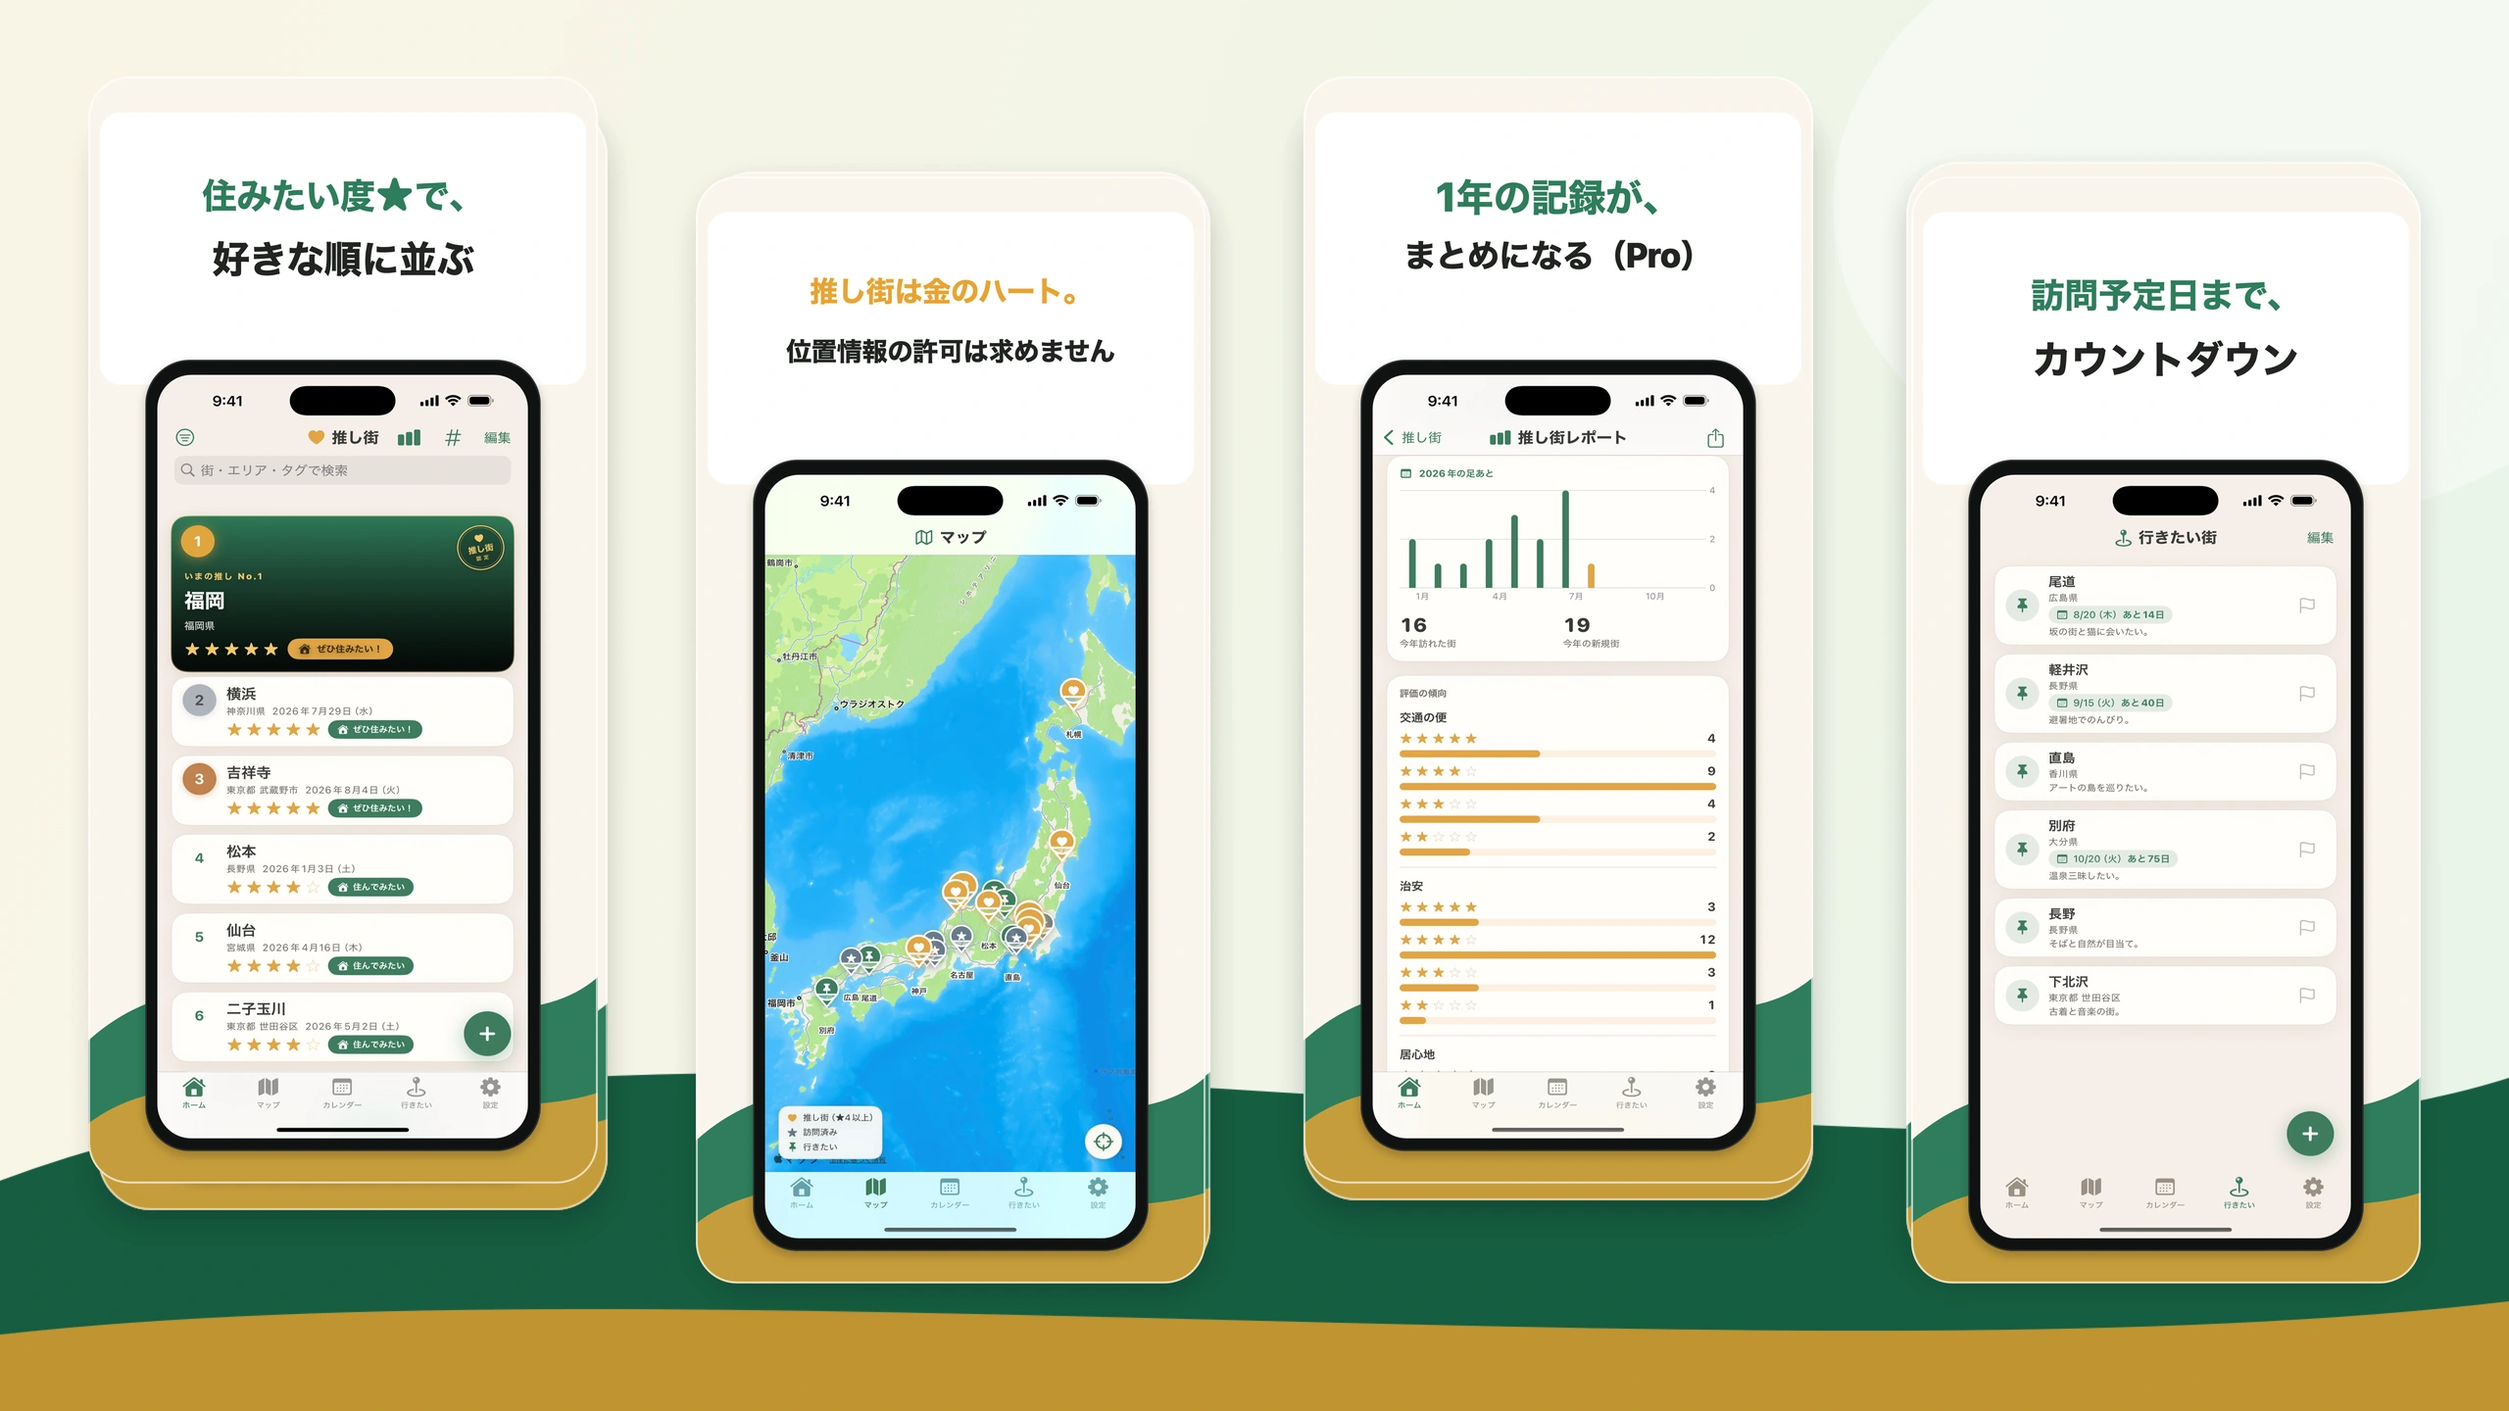
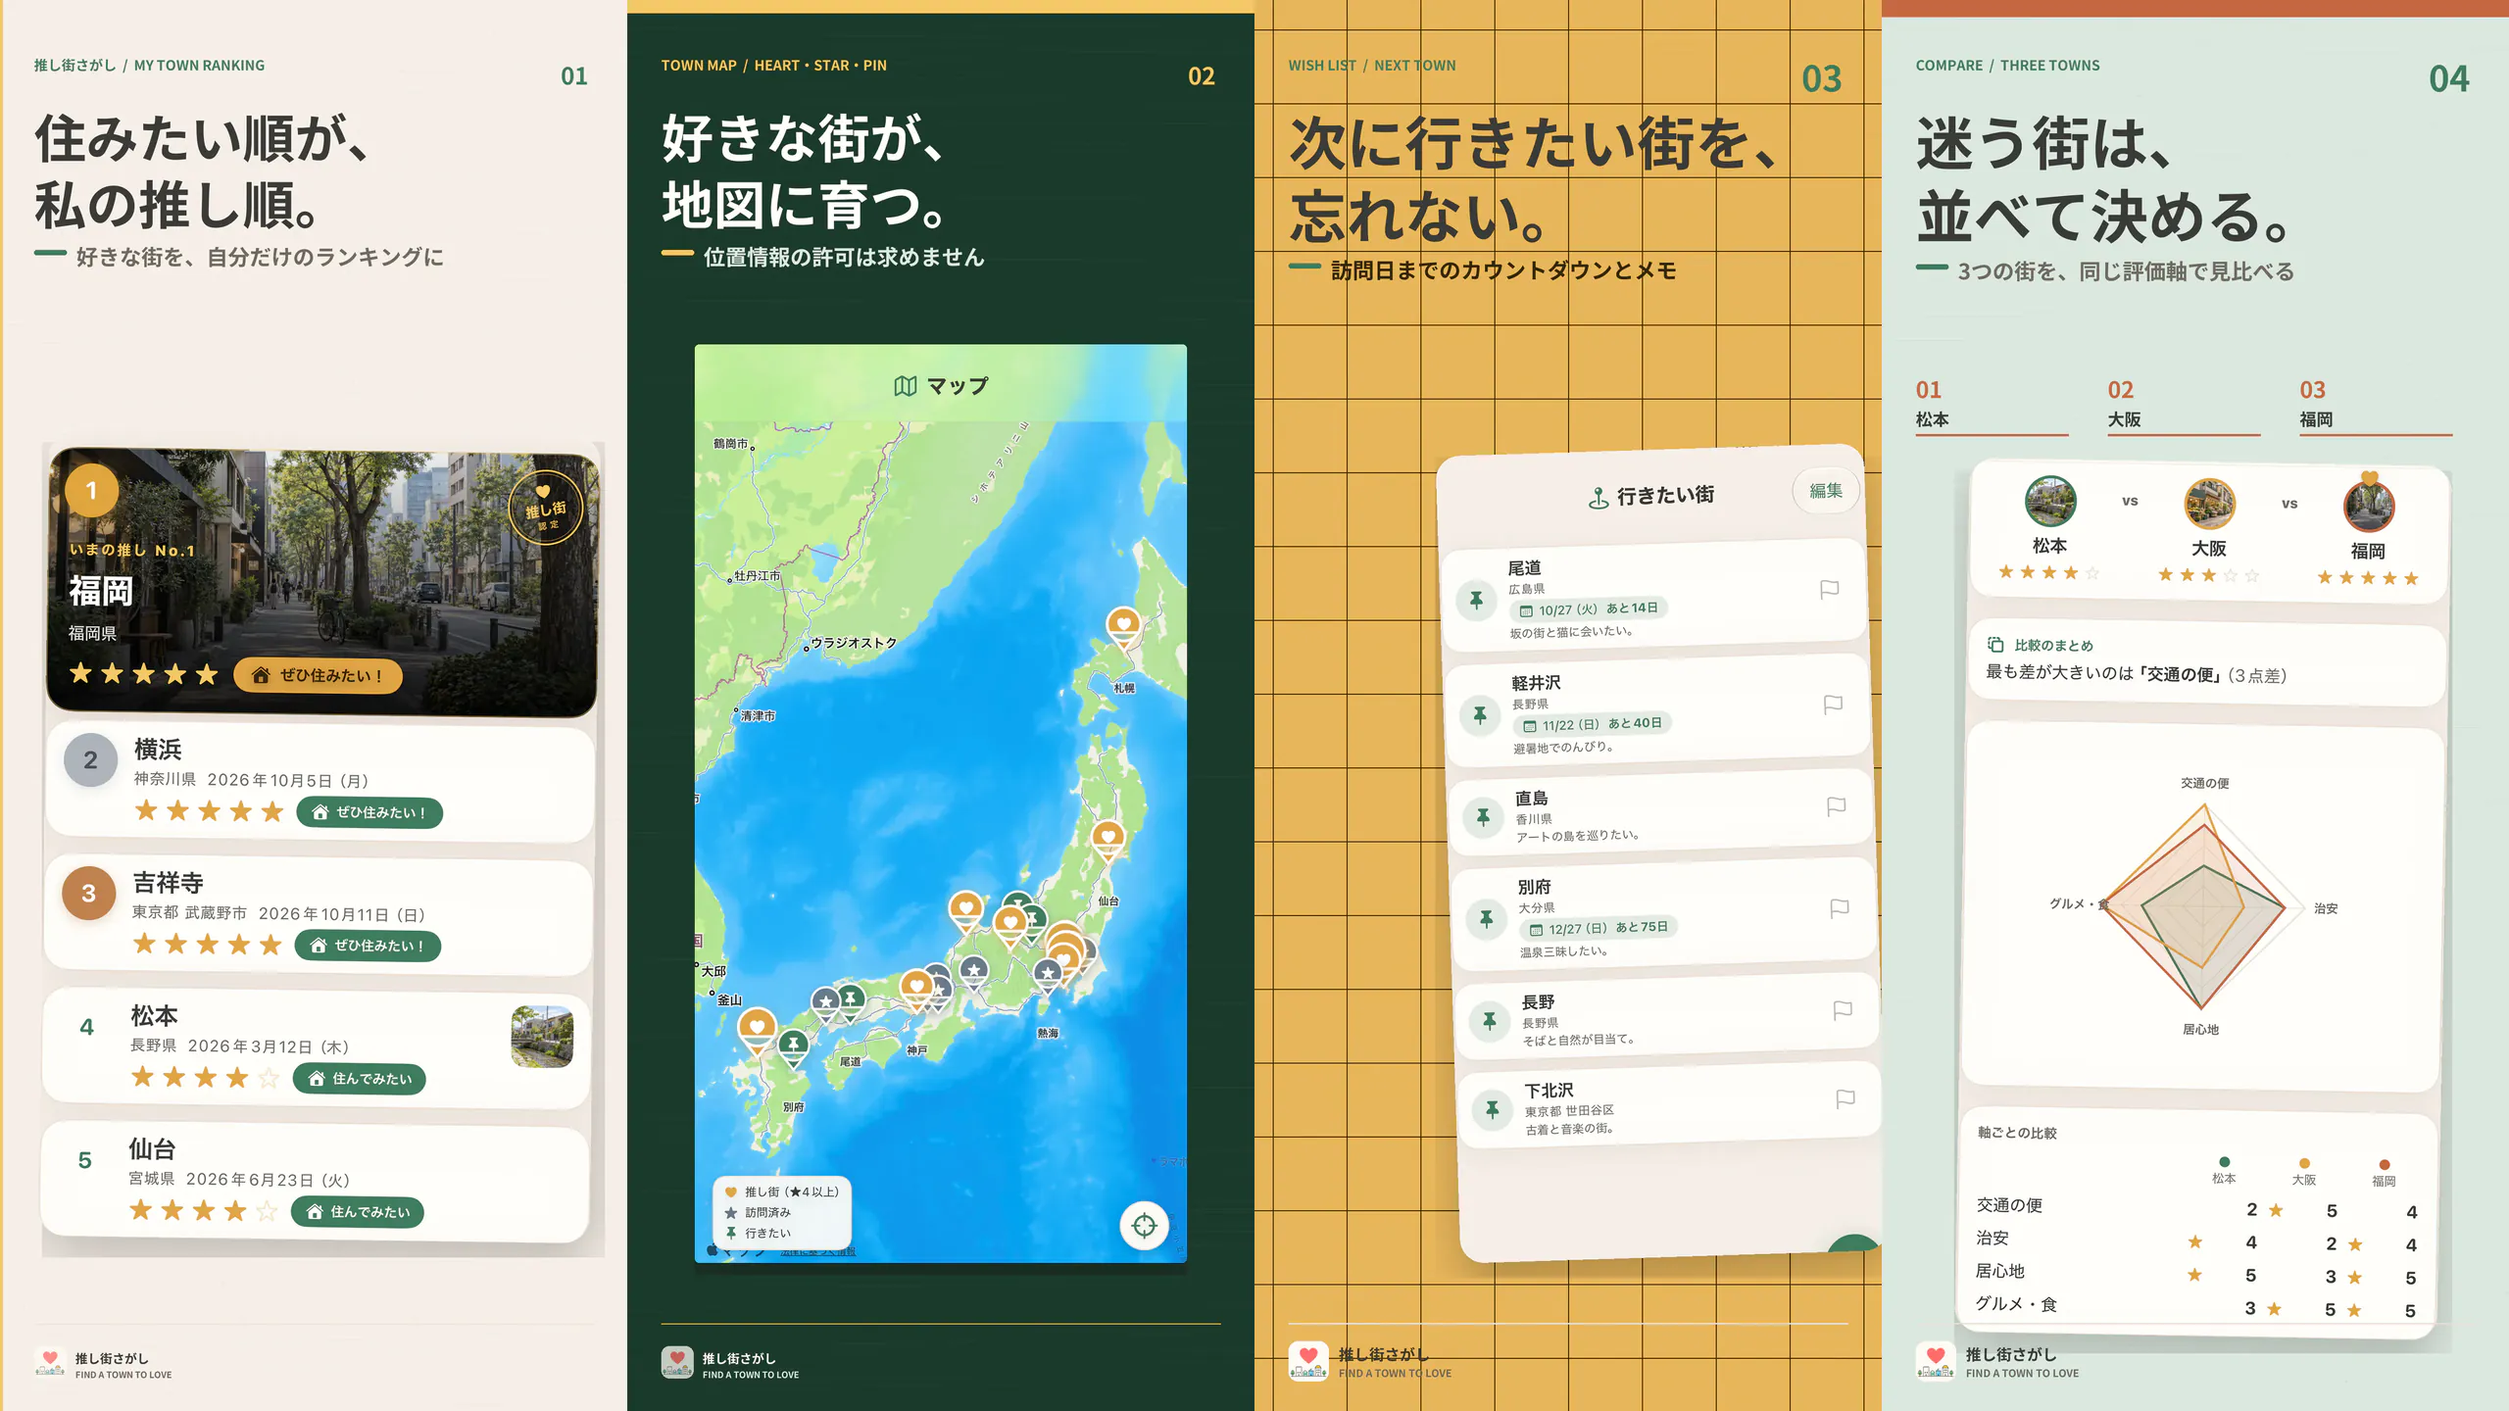
feat(lp): 推し街さがし・リード日記の訴求画像を新しいストア掲載画像に差し替える
- 画像は codex（gpt-5.6-sol）がストア掲載画像から作成（推し街 store-v3・リード日記 store-v2）
- 推し街: ランキング／地図／行きたい街／比較。リード日記: 一覧／詳細／推移／比較
- 並びが変わったので、スライド・ドット・拡大表示の aria-label を日英で合わせる

Claude-Session: https://claude.ai/code/session_01PgRLpeXq7Vs81cCuAfzhoT

diff --git a/reeddiary/index.html b/reeddiary/index.html
@@ -305,16 +305,16 @@
         <div class="shot-frame">
           <div class="shot-track">
             <button type="button" class="shot-slide" style="--i:0" aria-label="リードの一覧の画面を拡大（1/4）"><img src="./app-image.webp" alt="" decoding="async"></button>
-            <button type="button" class="shot-slide" style="--i:1" aria-label="リードを比較の画面を拡大（2/4）"><img src="./app-image.webp" alt="" decoding="async"></button>
-            <button type="button" class="shot-slide" style="--i:2" aria-label="リードの詳細の画面を拡大（3/4）"><img src="./app-image.webp" alt="" decoding="async"></button>
-            <button type="button" class="shot-slide" style="--i:3" aria-label="調子の推移の画面を拡大（4/4）"><img src="./app-image.webp" alt="" decoding="async"></button>
+            <button type="button" class="shot-slide" style="--i:1" aria-label="リードの詳細の画面を拡大（2/4）"><img src="./app-image.webp" alt="" decoding="async"></button>
+            <button type="button" class="shot-slide" style="--i:2" aria-label="調子の推移の画面を拡大（3/4）"><img src="./app-image.webp" alt="" decoding="async"></button>
+            <button type="button" class="shot-slide" style="--i:3" aria-label="リードを比較の画面を拡大（4/4）"><img src="./app-image.webp" alt="" decoding="async"></button>
           </div>
         </div>
         <div class="shot-dots">
           <button type="button" class="shot-dot" aria-label="リードの一覧の画面を表示（1/4）"></button>
-          <button type="button" class="shot-dot" aria-label="リードを比較の画面を表示（2/4）"></button>
-          <button type="button" class="shot-dot" aria-label="リードの詳細の画面を表示（3/4）"></button>
-          <button type="button" class="shot-dot" aria-label="調子の推移の画面を表示（4/4）"></button>
+          <button type="button" class="shot-dot" aria-label="リードの詳細の画面を表示（2/4）"></button>
+          <button type="button" class="shot-dot" aria-label="調子の推移の画面を表示（3/4）"></button>
+          <button type="button" class="shot-dot" aria-label="リードを比較の画面を表示（4/4）"></button>
         </div>
         <figcaption class="shot-hint">タップで拡大</figcaption>
       </figure>
@@ -409,9 +409,9 @@
   </div>
   <div class="lightbox-dots">
     <button type="button" class="lightbox-dot" aria-label="リードの一覧の画面を表示（1/4）"></button>
-    <button type="button" class="lightbox-dot" aria-label="リードを比較の画面を表示（2/4）"></button>
-    <button type="button" class="lightbox-dot" aria-label="リードの詳細の画面を表示（3/4）"></button>
-    <button type="button" class="lightbox-dot" aria-label="調子の推移の画面を表示（4/4）"></button>
+    <button type="button" class="lightbox-dot" aria-label="リードの詳細の画面を表示（2/4）"></button>
+    <button type="button" class="lightbox-dot" aria-label="調子の推移の画面を表示（3/4）"></button>
+    <button type="button" class="lightbox-dot" aria-label="リードを比較の画面を表示（4/4）"></button>
   </div>
   <button type="button" class="lightbox-close" aria-label="閉じる">&times;</button>
 </dialog>

diff --git a/reeddiary/en/index.html b/reeddiary/en/index.html
@@ -305,16 +305,16 @@
         <div class="shot-frame">
           <div class="shot-track">
             <button type="button" class="shot-slide" style="--i:0" aria-label="Enlarge the reed list screen (1 of 4)"><img src="../app-image-en.webp" alt="" decoding="async"></button>
-            <button type="button" class="shot-slide" style="--i:1" aria-label="Enlarge the Compare reeds screen (2 of 4)"><img src="../app-image-en.webp" alt="" decoding="async"></button>
-            <button type="button" class="shot-slide" style="--i:2" aria-label="Enlarge the single reed screen (3 of 4)"><img src="../app-image-en.webp" alt="" decoding="async"></button>
-            <button type="button" class="shot-slide" style="--i:3" aria-label="Enlarge the condition trend screen (4 of 4)"><img src="../app-image-en.webp" alt="" decoding="async"></button>
+            <button type="button" class="shot-slide" style="--i:1" aria-label="Enlarge the single reed screen (2 of 4)"><img src="../app-image-en.webp" alt="" decoding="async"></button>
+            <button type="button" class="shot-slide" style="--i:2" aria-label="Enlarge the condition trend screen (3 of 4)"><img src="../app-image-en.webp" alt="" decoding="async"></button>
+            <button type="button" class="shot-slide" style="--i:3" aria-label="Enlarge the Compare reeds screen (4 of 4)"><img src="../app-image-en.webp" alt="" decoding="async"></button>
           </div>
         </div>
         <div class="shot-dots">
           <button type="button" class="shot-dot" aria-label="Show the reed list screen (1 of 4)"></button>
-          <button type="button" class="shot-dot" aria-label="Show the Compare reeds screen (2 of 4)"></button>
-          <button type="button" class="shot-dot" aria-label="Show the single reed screen (3 of 4)"></button>
-          <button type="button" class="shot-dot" aria-label="Show the condition trend screen (4 of 4)"></button>
+          <button type="button" class="shot-dot" aria-label="Show the single reed screen (2 of 4)"></button>
+          <button type="button" class="shot-dot" aria-label="Show the condition trend screen (3 of 4)"></button>
+          <button type="button" class="shot-dot" aria-label="Show the Compare reeds screen (4 of 4)"></button>
         </div>
         <figcaption class="shot-hint">Tap to enlarge</figcaption>
       </figure>
@@ -409,9 +409,9 @@
   </div>
   <div class="lightbox-dots">
     <button type="button" class="lightbox-dot" aria-label="Show the reed list screen (1 of 4)"></button>
-    <button type="button" class="lightbox-dot" aria-label="Show the Compare reeds screen (2 of 4)"></button>
-    <button type="button" class="lightbox-dot" aria-label="Show the single reed screen (3 of 4)"></button>
-    <button type="button" class="lightbox-dot" aria-label="Show the condition trend screen (4 of 4)"></button>
+    <button type="button" class="lightbox-dot" aria-label="Show the single reed screen (2 of 4)"></button>
+    <button type="button" class="lightbox-dot" aria-label="Show the condition trend screen (3 of 4)"></button>
+    <button type="button" class="lightbox-dot" aria-label="Show the Compare reeds screen (4 of 4)"></button>
   </div>
   <button type="button" class="lightbox-close" aria-label="Close">&times;</button>
 </dialog>

diff --git a/oshimachi/index.html b/oshimachi/index.html
@@ -306,15 +306,15 @@
           <div class="shot-track">
             <button type="button" class="shot-slide" style="--i:0" aria-label="ホームのランキングの画面を拡大（1/4）"><img src="./app-image.webp" alt="" decoding="async"></button>
             <button type="button" class="shot-slide" style="--i:1" aria-label="地図の画面を拡大（2/4）"><img src="./app-image.webp" alt="" decoding="async"></button>
-            <button type="button" class="shot-slide" style="--i:2" aria-label="推し街レポートの画面を拡大（3/4）"><img src="./app-image.webp" alt="" decoding="async"></button>
-            <button type="button" class="shot-slide" style="--i:3" aria-label="行きたい街の一覧の画面を拡大（4/4）"><img src="./app-image.webp" alt="" decoding="async"></button>
+            <button type="button" class="shot-slide" style="--i:2" aria-label="行きたい街の一覧の画面を拡大（3/4）"><img src="./app-image.webp" alt="" decoding="async"></button>
+            <button type="button" class="shot-slide" style="--i:3" aria-label="街の比較の画面を拡大（4/4）"><img src="./app-image.webp" alt="" decoding="async"></button>
           </div>
         </div>
         <div class="shot-dots">
           <button type="button" class="shot-dot" aria-label="ホームのランキングの画面を表示（1/4）"></button>
           <button type="button" class="shot-dot" aria-label="地図の画面を表示（2/4）"></button>
-          <button type="button" class="shot-dot" aria-label="推し街レポートの画面を表示（3/4）"></button>
-          <button type="button" class="shot-dot" aria-label="行きたい街の一覧の画面を表示（4/4）"></button>
+          <button type="button" class="shot-dot" aria-label="行きたい街の一覧の画面を表示（3/4）"></button>
+          <button type="button" class="shot-dot" aria-label="街の比較の画面を表示（4/4）"></button>
         </div>
         <figcaption class="shot-hint">タップで拡大</figcaption>
       </figure>
@@ -410,8 +410,8 @@
   <div class="lightbox-dots">
     <button type="button" class="lightbox-dot" aria-label="ホームのランキングの画面を表示（1/4）"></button>
     <button type="button" class="lightbox-dot" aria-label="地図の画面を表示（2/4）"></button>
-    <button type="button" class="lightbox-dot" aria-label="推し街レポートの画面を表示（3/4）"></button>
-    <button type="button" class="lightbox-dot" aria-label="行きたい街の一覧の画面を表示（4/4）"></button>
+    <button type="button" class="lightbox-dot" aria-label="行きたい街の一覧の画面を表示（3/4）"></button>
+    <button type="button" class="lightbox-dot" aria-label="街の比較の画面を表示（4/4）"></button>
   </div>
   <button type="button" class="lightbox-close" aria-label="閉じる">&times;</button>
 </dialog>

diff --git a/oshimachi/en/index.html b/oshimachi/en/index.html
@@ -307,15 +307,15 @@
           <div class="shot-track">
             <button type="button" class="shot-slide" style="--i:0" aria-label="Enlarge the home ranking screen (1 of 4)"><img src="../app-image-en.webp" alt="" decoding="async"></button>
             <button type="button" class="shot-slide" style="--i:1" aria-label="Enlarge the map screen (2 of 4)"><img src="../app-image-en.webp" alt="" decoding="async"></button>
-            <button type="button" class="shot-slide" style="--i:2" aria-label="Enlarge the town report screen (3 of 4)"><img src="../app-image-en.webp" alt="" decoding="async"></button>
-            <button type="button" class="shot-slide" style="--i:3" aria-label="Enlarge the wishlist screen (4 of 4)"><img src="../app-image-en.webp" alt="" decoding="async"></button>
+            <button type="button" class="shot-slide" style="--i:2" aria-label="Enlarge the wishlist screen (3 of 4)"><img src="../app-image-en.webp" alt="" decoding="async"></button>
+            <button type="button" class="shot-slide" style="--i:3" aria-label="Enlarge the town comparison screen (4 of 4)"><img src="../app-image-en.webp" alt="" decoding="async"></button>
           </div>
         </div>
         <div class="shot-dots">
           <button type="button" class="shot-dot" aria-label="Show the home ranking screen (1 of 4)"></button>
           <button type="button" class="shot-dot" aria-label="Show the map screen (2 of 4)"></button>
-          <button type="button" class="shot-dot" aria-label="Show the town report screen (3 of 4)"></button>
-          <button type="button" class="shot-dot" aria-label="Show the wishlist screen (4 of 4)"></button>
+          <button type="button" class="shot-dot" aria-label="Show the wishlist screen (3 of 4)"></button>
+          <button type="button" class="shot-dot" aria-label="Show the town comparison screen (4 of 4)"></button>
         </div>
         <figcaption class="shot-hint">Tap to enlarge</figcaption>
       </figure>
@@ -411,8 +411,8 @@
   <div class="lightbox-dots">
     <button type="button" class="lightbox-dot" aria-label="Show the home ranking screen (1 of 4)"></button>
     <button type="button" class="lightbox-dot" aria-label="Show the map screen (2 of 4)"></button>
-    <button type="button" class="lightbox-dot" aria-label="Show the town report screen (3 of 4)"></button>
-    <button type="button" class="lightbox-dot" aria-label="Show the wishlist screen (4 of 4)"></button>
+    <button type="button" class="lightbox-dot" aria-label="Show the wishlist screen (3 of 4)"></button>
+    <button type="button" class="lightbox-dot" aria-label="Show the town comparison screen (4 of 4)"></button>
   </div>
   <button type="button" class="lightbox-close" aria-label="Close">&times;</button>
 </dialog>
